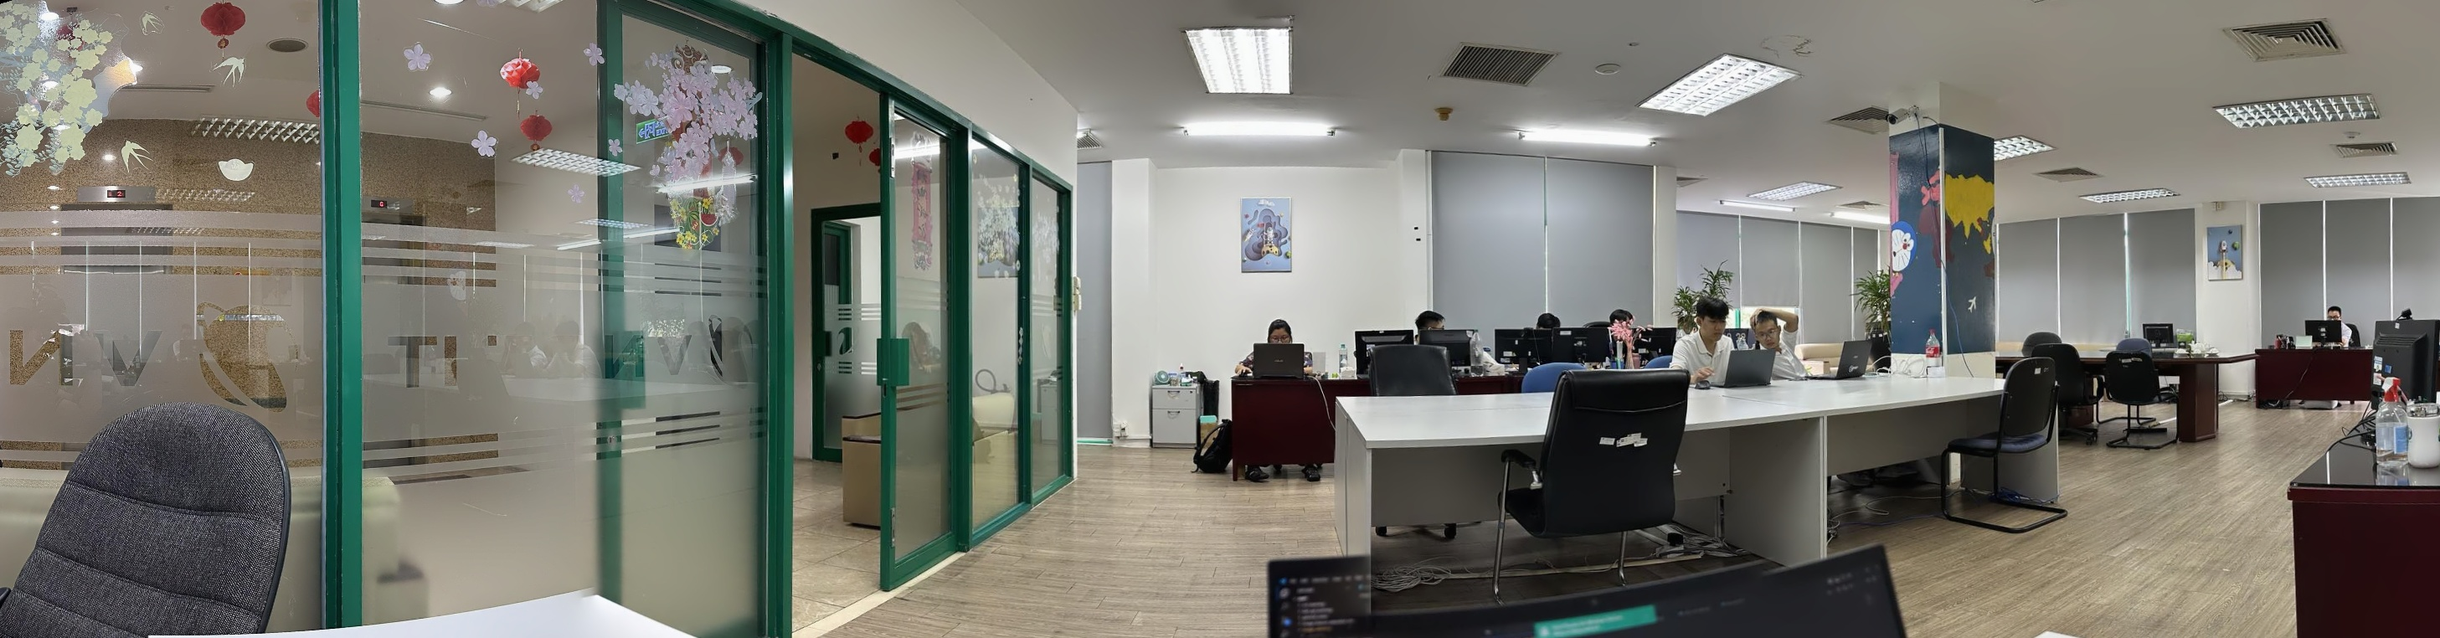
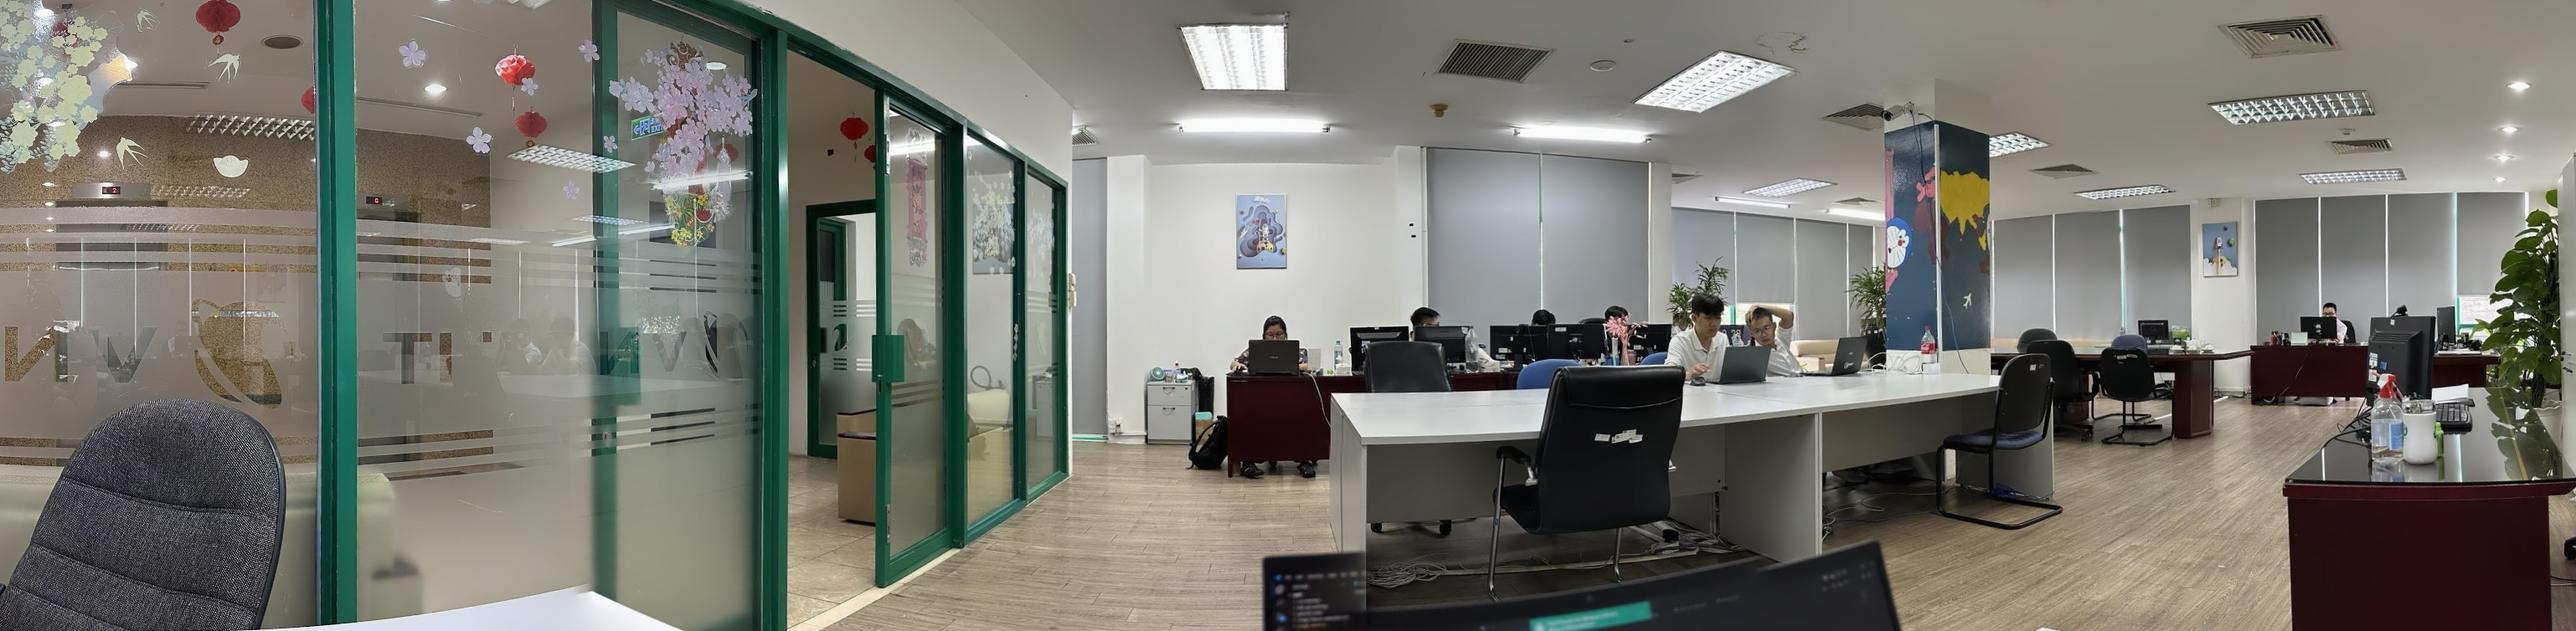
updated expand from crop image complete

diff --git a/image_stitch_wtih_crop_source.py b/image_stitch_wtih_crop_source.py
@@ -2,53 +2,53 @@ import cv2
 import glob
 
 def show_image(header, image):
-    print("[CONSOLE] Showing image")
+    print("[Console] Showing image")
     cv2.imshow(header, image)
     cv2.waitKey()
     
 def write_image(directory, image):
-    print("[CONSOLE] Saving image")
+    print("[Console] Saving image")
     cv2.imwrite(directory, image)
 
 def get_images(directory):
-    print("[CONSOLE] Accessing folder")
+    print("[Console] Accessing folder")
     image_paths = glob.glob(directory)
     print(image_paths)
     if len(image_paths) == 0:
-        raise Exception("[CONSOLE] Invalid directory")
+        raise Exception("[Console] Invalid directory")
     images = []
     # Add image to memory
-    print("[CONSOLE] Loading Images")
+    print("[Console] Loading Images")
     for image_path in image_paths:
         image = cv2.imread(image_path)
         images.append(image)
-    print(f"[CONSOLE] Loaded {len(images)} image(s)")
+    print(f"[Console] Loaded {len(images)} image(s)")
     return images
 
 def get_gray_image(image):
     return cv2.cvtColor(image, cv2.COLOR_RGB2GRAY)
 
 def get_stitch_image(image_list):
-    print("[CONSOLE] Stitching Images")
+    print("[Console] Stitching Images")
     # Stitch
     stitcher = cv2.Stitcher.create()
     stitch_status, stitched_image = stitcher.stitch(image_list)
     # Output
     if stitch_status == 0:
-        print("[CONSOLE] Stitch successfully")
+        print("[Console] Stitch successfully")
         return stitched_image
     else:
         raise Exception("[Console] Stitch failed")
     
 def get_threshold_image(gray_image):
-    print("[CONSOLE] Thresholding image")
+    print("[Console] Thresholding image")
     return cv2.threshold(gray_image, 0, 255, cv2.THRESH_BINARY)[1]
 
 def get_image_2D_dim(image):
     return image.shape[:2]
 
 def get_mask_image(image):
-    print("[CONSOLE] Masking image")
+    print("[Console] Masking image")
     gray_image = get_gray_image(image)
     # Threshold + Blur + Threshold = Remove all the random black pixel in the white part of the first threshold
     threshold_image = get_threshold_image(gray_image)
@@ -95,45 +95,40 @@ def is_black_pixel_outline(threshold_image):
     if is_black_ver_line(threshold_image, 0, height, width-1): return True
     return False
 
-def expand_from_crop_image(image, cropped_image, crop_location):
+def expand_from_crop_image(image, crop_location):
     # Assuming it is proportionally cropped, expand each side until it hit a black pixel
     # This will get the most image info in the expense of original image ratio
-    print("[CONSOLE] Salvaging usable cropped portions")
-    height, width = get_image_2D_dim(cropped_image)
-    print(get_image_2D_dim(cropped_image))
+    # w +- 5 instead of 1 for any error margin it may have
+    print("[Console] Salvaging usable cropped portions")
+    height, width = get_image_2D_dim(image)
     h_lower, h_upper, w_left, w_right = crop_location
-    print(crop_location)
     mask_img = get_mask_image(image)
     # Left side (h, 0)
     for w in range(w_left, -1, -1):
         if is_black_ver_line(mask_img, h_lower, h_upper, w):
-            w_left = w-1
-            print("w1", w)
+            w_left = w+5
             break
     # Right side (h, w)
     for w in range(w_right, width):
         if is_black_ver_line(mask_img, h_lower, h_upper, w): 
-            w_right = w-1
-            print("w2", w)
+            w_right = w-5
             break
     # Lower side (0, w)
     for h in range(h_lower, -1, -1):
         if is_black_hor_line(mask_img, w_left, w_right, h): 
-            h_lower = h-1
-            print("h1", h)
+            h_lower = h+5
             break
     # Upper side (w, 0)
     for h in range(h_upper, height):
         if is_black_hor_line(mask_img, w_left, w_right, h): 
-            h_upper = h-1
-            print("h2", h)
+            h_upper = h-5
             break
-    print(h_lower, h_upper, w_left, w_right)
+    print("[Console] Salvaging usable image portion success")
     return (h_lower, h_upper, w_left, w_right), image[h_lower:h_upper, w_left:w_right]
 
     
 def remove_black_outline(image):
-    print("[CONSOLE] Cropping Image")
+    print("[Console] Cropping Image")
     mask = get_mask_image(image)
     # Cropping image
     is_cropped = False
@@ -141,24 +136,23 @@ def remove_black_outline(image):
         crop_factor = 0.01 * crop_factor
         trial_mask = crop_image(mask, crop_factor)[1]
         if not is_black_pixel_outline(trial_mask):
-            print(f"[CONSOLE] Crop image with factor of {crop_factor}")
+            print(f"[Console] Crop image with factor of {crop_factor}")
             is_cropped = True
             break
     # Showing result
     if is_cropped:
-        print("[CONSOLE] Crop successfully")
+        print("[Console] Crop successfully")
         return crop_image(image, crop_factor)
     else:
-        print("[CONSOLE] Image is not suitable to be cropped")
+        print("[Console] Image is not suitable to be cropped")
         return None
 
 # Main
 images = get_images("./images/real/*.jpg")
 stitched_image = get_stitch_image(images)
 crop_location, cropped_image = remove_black_outline(stitched_image)
-expand_location, expanded_img = expand_from_crop_image(stitched_image, cropped_image, crop_location)
+expand_location, expanded_img = expand_from_crop_image(stitched_image, crop_location)
 # Output
-print(get_image_2D_dim(expanded_img))
 show_image("Product", expanded_img)
 write_image("./output/stitched_img.jpg", stitched_image)
 write_image("./output/cropped_img.jpg", cropped_image)
